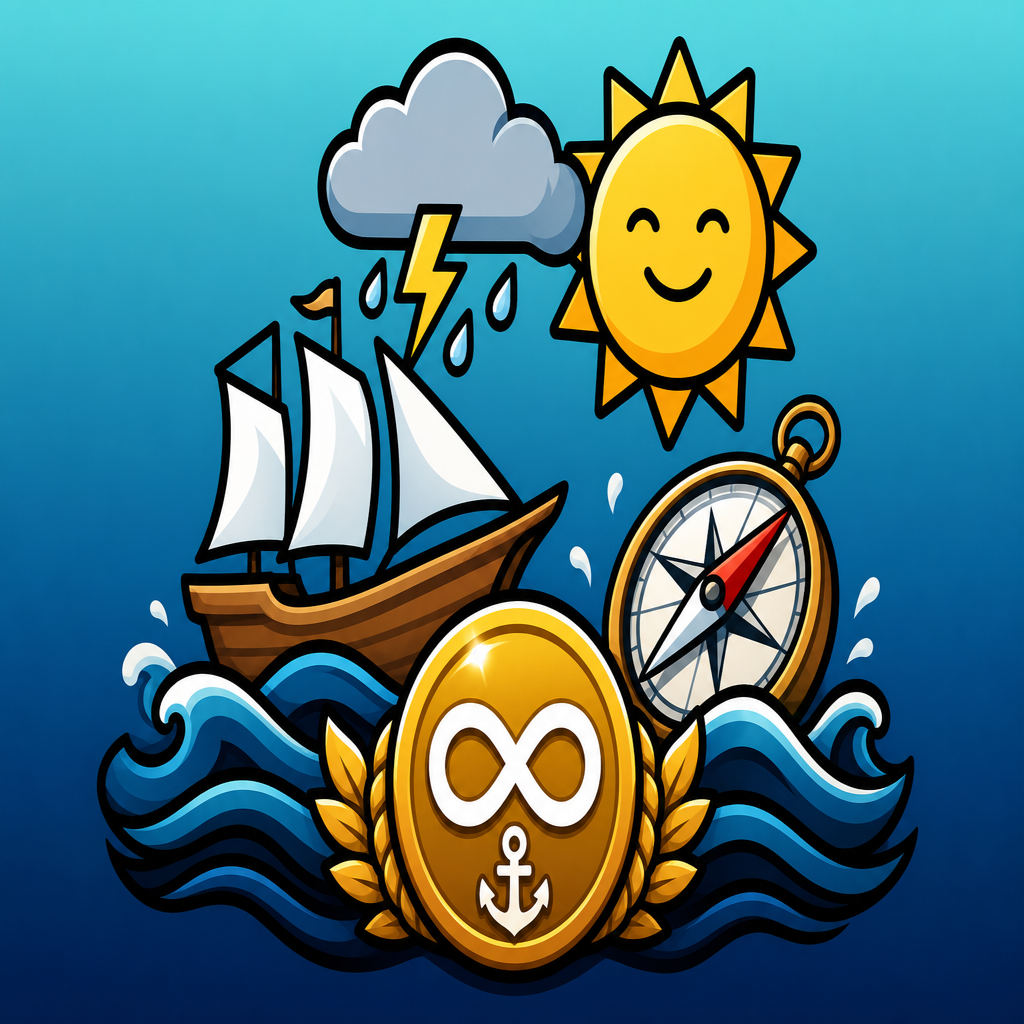
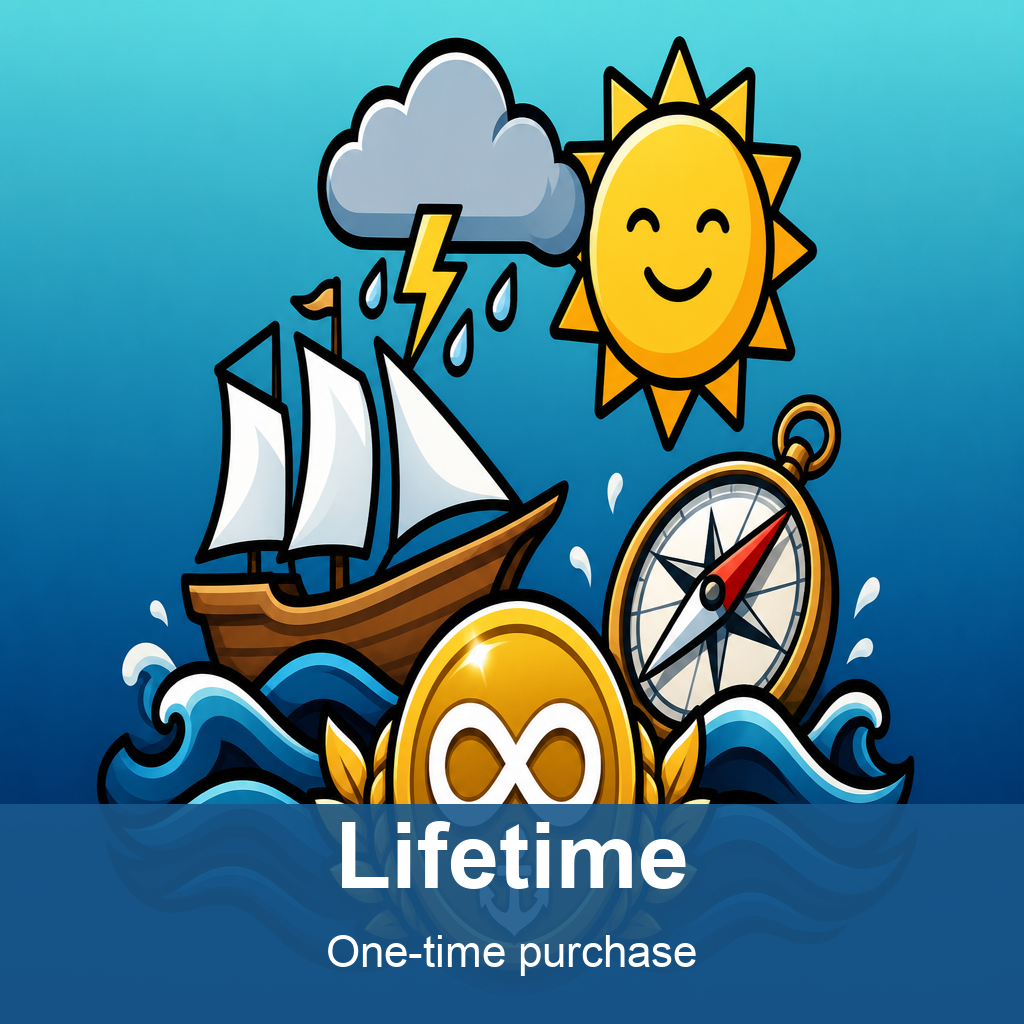
Fix App Review rejection: location string, paywall pricing, IAP promos.
Address 5.1.1 location purpose text, 3.1.2(c) subscription price prominence, and add distinct IAP promotional images for Connect upload (v0.3.7 build 44).

Changed region(s): [[0.0, 0.7812, 1.0, 1.0]]

diff --git a/MarineWeather/Sources/UI/Route/RoutePremiumPaywall.swift b/MarineWeather/Sources/UI/Route/RoutePremiumPaywall.swift
@@ -11,7 +11,7 @@ struct RoutePremiumPaywall: View {
 
     var body: some View {
         ScrollView {
-            VStack(spacing: 14) {
+            VStack(spacing: 16) {
                 Image(systemName: "lock.fill")
                     .font(.system(size: 36))
                     .foregroundStyle(.secondary)
@@ -26,16 +26,7 @@ struct RoutePremiumPaywall: View {
                     .foregroundStyle(.secondary)
                     .multilineTextAlignment(.center)
 
-                if premium.showTrialOffer {
-                    Button {
-                        premium.startTrial()
-                        if premium.isPremium { onUnlocked() }
-                    } label: {
-                        Text(String(localized: "route_premium_trial_cta"))
-                            .frame(maxWidth: .infinity)
-                    }
-                    .buttonStyle(.bordered)
-                }
+                monthlySubscriptionCard
 
                 Button {
                     Task {
@@ -46,25 +37,8 @@ struct RoutePremiumPaywall: View {
                     Text(lifetimeButtonTitle)
                         .frame(maxWidth: .infinity)
                 }
-                .buttonStyle(.borderedProminent)
-                .disabled(!lifetimeReady || premium.isPurchasing)
-
-                Button {
-                    Task {
-                        await premium.purchaseMonthly()
-                        if premium.isPremium { onUnlocked() }
-                    }
-                } label: {
-                    Text(monthlyButtonTitle)
-                        .frame(maxWidth: .infinity)
-                }
                 .buttonStyle(.bordered)
-                .disabled(!monthlyReady || premium.isPurchasing)
-
-                Text(String(localized: "route_premium_sub_recurring_hint"))
-                    .font(.caption2)
-                    .foregroundStyle(.secondary)
-                    .multilineTextAlignment(.center)
+                .disabled(!lifetimeReady || premium.isPurchasing)
 
                 Button {
                     Task {
@@ -107,10 +81,18 @@ struct RoutePremiumPaywall: View {
                     .foregroundStyle(.secondary)
                     .multilineTextAlignment(.center)
 
-                Text(String(localized: "route_premium_trial_appstore_note"))
-                    .font(.caption2)
-                    .foregroundStyle(.tertiary)
+                if premium.showTrialOffer {
+                    Button {
+                        premium.startTrial()
+                        if premium.isPremium { onUnlocked() }
+                    } label: {
+                        Text(String(localized: "route_premium_trial_secondary"))
+                    }
+                    .font(.caption)
+                    .foregroundStyle(.secondary)
+                    .buttonStyle(.plain)
                     .multilineTextAlignment(.center)
+                }
 
                 subscriptionLegalDisclosure
 
@@ -143,6 +125,44 @@ struct RoutePremiumPaywall: View {
         #endif
     }
 
+    private var monthlySubscriptionCard: some View {
+        VStack(spacing: 10) {
+            Text(String(localized: "route_premium_monthly_heading"))
+                .font(.subheadline.weight(.semibold))
+                .foregroundStyle(.secondary)
+
+            Text(monthlyPriceLabel)
+                .font(.system(size: 36, weight: .bold))
+                .monospacedDigit()
+                .foregroundStyle(.primary)
+
+            Text(String(localized: "route_premium_monthly_per_period"))
+                .font(.subheadline)
+                .foregroundStyle(.secondary)
+
+            Button {
+                Task {
+                    await premium.purchaseMonthly()
+                    if premium.isPremium { onUnlocked() }
+                }
+            } label: {
+                Text(String(format: String(localized: "route_premium_subscribe_cta"), monthlyPriceLabel))
+                    .font(.headline)
+                    .frame(maxWidth: .infinity)
+            }
+            .buttonStyle(.borderedProminent)
+            .disabled(!monthlyReady || premium.isPurchasing)
+
+            Text(String(localized: "route_premium_sub_recurring_hint"))
+                .font(.caption2)
+                .foregroundStyle(.secondary)
+                .multilineTextAlignment(.center)
+        }
+        .padding(16)
+        .frame(maxWidth: .infinity)
+        .background(Color(.secondarySystemBackground), in: RoundedRectangle(cornerRadius: 12))
+    }
+
     private var lifetimeReady: Bool {
         #if DEBUG
         if premium.iapReviewScreenshotMode { return true }
@@ -160,11 +180,6 @@ struct RoutePremiumPaywall: View {
     private var lifetimeButtonTitle: String {
         let price = premium.lifetimeProduct?.displayPrice ?? lifetimeFallbackPrice
         return String(format: String(localized: "route_premium_buy_once"), price)
-    }
-
-    private var monthlyButtonTitle: String {
-        let price = premium.subscriptionProduct?.displayPrice ?? monthlyFallbackPrice
-        return String(format: String(localized: "route_premium_subscribe_monthly"), price)
     }
 
     private var lifetimeFallbackPrice: String {

diff --git a/MarineWeather/Sources/AppConfig.swift b/MarineWeather/Sources/AppConfig.swift
@@ -3,10 +3,10 @@ import Foundation
 /// Shared constants ported from Android `MapConfig` and `BuildConfig`.
 enum AppConfig {
     static let appDisplayName = "Marine Weather"
-    static let marketingVersion = "0.3.6"
+    static let marketingVersion = "0.3.7"
 
     /// Match Android `WEATHER_USER_AGENT`; bump version when shipping.
-    static let weatherUserAgent = "MarineWeather/0.3.6 (fi.veneappi.MarineWeather; planning app)"
+    static let weatherUserAgent = "MarineWeather/0.3.7 (fi.veneappi.MarineWeather; planning app)"
 
     // Map — OpenFreeMap (see Android `MapConfig.kt`)
     static let mapStyleURL = URL(string: "https://tiles.openfreemap.org/styles/liberty")!
@@ -32,7 +32,7 @@ enum AppConfig {
 
     // Fintraffic Digitraffic AIS (Baltic / Finland) — https://meri.digitraffic.fi
     static let digitrafficBaseURL = URL(string: "https://meri.digitraffic.fi/api/ais/v1")!
-    static let digitrafficUser = "MarineWeather/0.3.6 (fi.veneappi.MarineWeather)"
+    static let digitrafficUser = "MarineWeather/0.3.7 (fi.veneappi.MarineWeather)"
     /// REST poll interval while AIS overlay is on (no MQTT).
     static let aisRestPollIntervalSeconds: TimeInterval = 60
     /// Metadata-only REST heartbeat while MQTT live (positions come from MQTT).

diff --git a/scripts/generate-iap-promo-images.py b/scripts/generate-iap-promo-images.py
@@ -1,0 +1,44 @@
+#!/usr/bin/env python3
+"""Generate distinct 1024×1024 IAP promotional images for App Store Connect."""
+from pathlib import Path
+
+from PIL import Image, ImageDraw, ImageFont
+
+ROOT = Path(__file__).resolve().parents[1]
+IAP_DIR = ROOT / "docs" / "app-store" / "iap"
+LIFETIME_PATH = IAP_DIR / "route_premium_lifetime-1024.png"
+MONTHLY_PATH = IAP_DIR / "route_premium_monthly-1024.png"
+SIZE = 1024
+
+
+def make_variant(base: Image.Image, label: str, sublabel: str, accent_rgb: tuple[int, int, int]) -> Image.Image:
+    img = base.convert("RGBA").copy()
+    draw = ImageDraw.Draw(img)
+    banner_h = 220
+    overlay = Image.new("RGBA", (SIZE, banner_h), accent_rgb + (230,))
+    img.paste(overlay, (0, SIZE - banner_h), overlay)
+    try:
+        title_font = ImageFont.truetype("/System/Library/Fonts/Supplemental/Arial Bold.ttf", 92)
+        sub_font = ImageFont.truetype("/System/Library/Fonts/Supplemental/Arial.ttf", 44)
+    except OSError:
+        title_font = ImageFont.load_default()
+        sub_font = ImageFont.load_default()
+    draw.text((SIZE // 2, SIZE - banner_h + 52), label, fill="white", font=title_font, anchor="mm")
+    draw.text((SIZE // 2, SIZE - banner_h + 148), sublabel, fill=(255, 255, 255, 230), font=sub_font, anchor="mm")
+    return img.convert("RGB")
+
+
+def main() -> None:
+    IAP_DIR.mkdir(parents=True, exist_ok=True)
+    if not LIFETIME_PATH.exists():
+        raise SystemExit(f"Missing base image: {LIFETIME_PATH}")
+
+    base = Image.open(LIFETIME_PATH)
+    make_variant(base, "Lifetime", "One-time purchase", (24, 88, 140)).save(LIFETIME_PATH, quality=95)
+    make_variant(base, "Monthly", "Auto-renewable subscription", (196, 88, 24)).save(MONTHLY_PATH, quality=95)
+    print(f"Wrote {LIFETIME_PATH}")
+    print(f"Wrote {MONTHLY_PATH}")
+
+
+if __name__ == "__main__":
+    main()

diff --git a/docs/app-store/review-rejection-2026-07.md b/docs/app-store/review-rejection-2026-07.md
@@ -1,0 +1,29 @@
+# App Review rejection fixes (July 2026)
+
+## 5.1.1(ii) — Location purpose string
+
+**Fixed in app build:** `NSLocationWhenInUseUsageDescription` in `project.yml` + localized `InfoPlist.strings` (en/fi/sv/nb).
+
+Example (English): explains map centre, forecasts, and recenter while sailing.
+
+## 2.3.2 — Duplicate IAP promotional images
+
+**Fix in App Store Connect** (not only in binary):
+
+1. Open **Subscriptions / In-App Purchases** in App Store Connect.
+2. **`route_premium_lifetime`** → Promotional Image → upload `docs/app-store/iap/route_premium_lifetime-1024.png`
+3. **`route_premium_monthly`** → Promotional Image → upload `docs/app-store/iap/route_premium_monthly-1024.png` (different image)
+4. Or delete promotional images if you are not promoting IAPs on the store.
+
+Regenerate images: `python3 scripts/generate-iap-promo-images.py`
+
+## 3.1.2(c) — Subscription pricing prominence
+
+**Fixed in app build:** Paywall shows **monthly billed amount** large and primary; local 3-day trial is optional small text below purchases.
+
+## Resubmission checklist
+
+- [ ] Upload new build (location string + paywall)
+- [ ] Upload **unique** IAP promotional images (or remove them)
+- [ ] App Description still includes Terms + Privacy URLs (see `subscription-metadata.md`)
+- [ ] App Review Notes: mention paywall shows monthly price prominently; attach EULA screen recording if needed

diff --git a/docs/app-store/iap/README.md b/docs/app-store/iap/README.md
@@ -1,0 +1,18 @@
+# In-App Purchase promotional images (1024×1024)
+
+Apple requires **unique** promotional images per promoted IAP product (Guideline 2.3.2).
+
+| File | Product ID | Upload to |
+|------|------------|-----------|
+| `route_premium_lifetime-1024.png` | `route_premium_lifetime` | App Store Connect → IAP → Lifetime → Promotional Image |
+| `route_premium_monthly-1024.png` | `route_premium_monthly` | App Store Connect → IAP → Monthly → Promotional Image |
+
+Do **not** upload the same image for both products.
+
+If you are not promoting an IAP on the App Store, delete its promotional image in App Store Connect instead.
+
+Regenerate from the lifetime base (adds labelled banners):
+
+```bash
+python3 scripts/generate-iap-promo-images.py
+```
